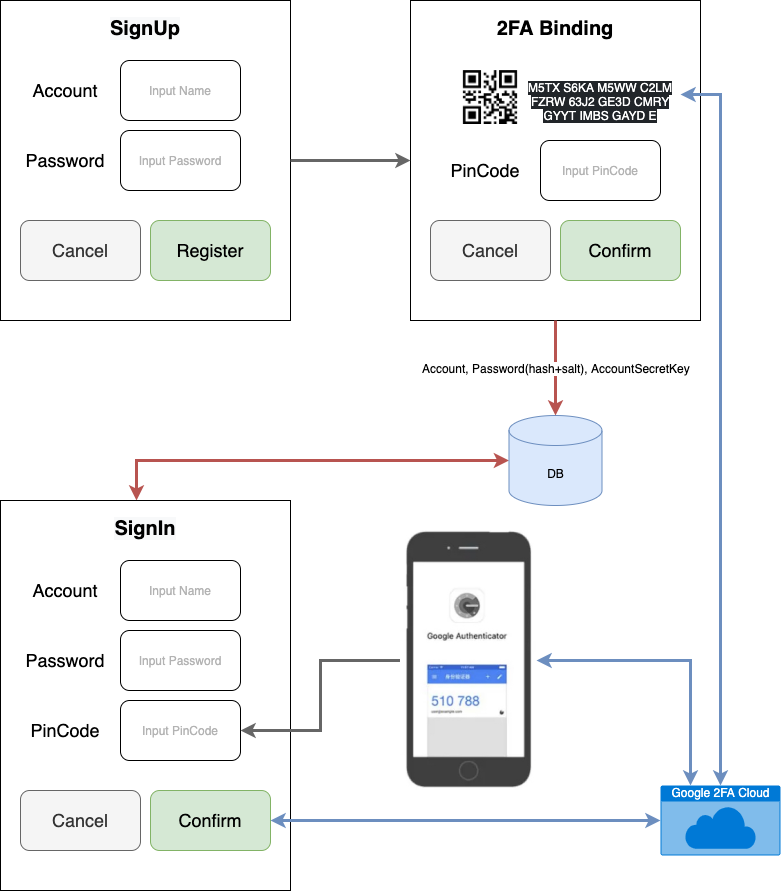
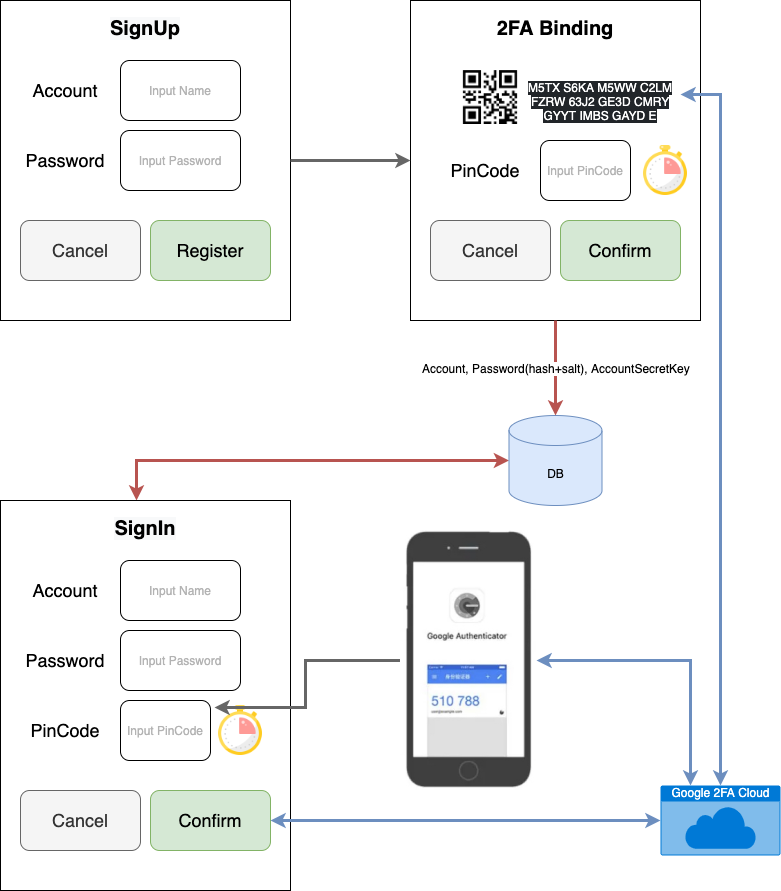
Updated with UI sample

Changed region(s): [[0.2458, 0.7576, 0.4302, 0.8485], [0.7068, 0.1515, 0.8912, 0.2424], [0.1536, 0.8182, 0.2151, 0.8485]]

diff --git a/README.md b/README.md
@@ -1,7 +1,12 @@
 # Google 2FA with ASP.NET Core
 
+## HLD
+
 ![google2fa.png](images/google2fa.png)
 
+## Sample UI
+
+![google2fa_lab.png](images/google2fa_lab.png)
 ## Test With PostMan
 
 import `Lab.TwoFA.postman_collection.json`
